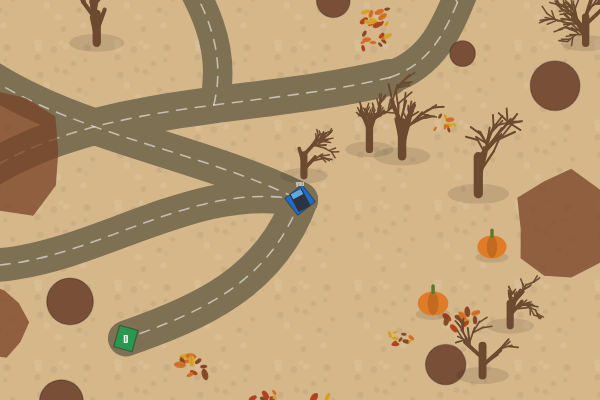
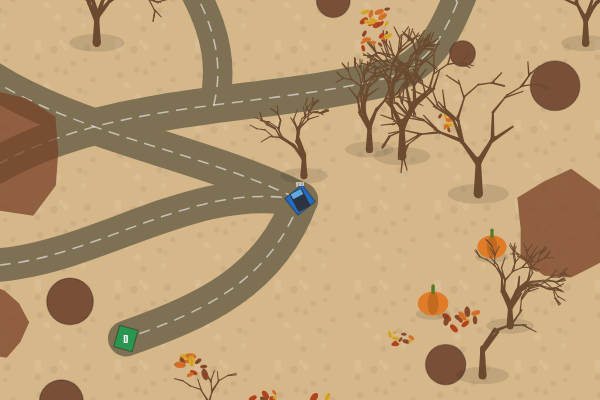
Improve tree generation

diff --git a/src/game/render.ts b/src/game/render.ts
@@ -1,10 +1,10 @@
-import { distance } from "../util/vec2.js";
-import { mulberry32, randInt, randRange, seedFromString, shuffle, type Rng } from "../util/rng.js";
 import { getTheme, type TextureStyle } from "../level/themes.js";
-import { drawPalmV2 } from "./palm-variants.js";
+import type { Level, Warehouse } from "../level/types.js";
 import type { CargoState } from "../physics/cargo.js";
 import type { TruckState } from "../physics/truck.js";
-import type { Level, Warehouse } from "../level/types.js";
+import { mulberry32, randInt, randRange, seedFromString, shuffle, type Rng } from "../util/rng.js";
+import { distance } from "../util/vec2.js";
+import { drawPalmV2 } from "./palm-variants.js";
 
 function strokeRoad(ctx: CanvasRenderingContext2D, level: Level): void {
   for (const road of level.roads) {
@@ -466,9 +466,9 @@ function drawTreeBranch(
     const t = randRange(rng, 0.75, 1); // start in the top 25% of this branch
     const sx = x + dx * length * t;
     const sy = y + dy * length * t;
-    const deviation = (randRange(rng, 20, 50) * Math.PI) / 180; // 20-50 deg, either side
+    const deviation = (randRange(rng, 15, 40) * Math.PI) / 180; // 20-50 deg, either side
     const childAngle = angle + (rng() < 0.5 ? -deviation : deviation);
-    drawTreeBranch(ctx, rng, sx, sy, childAngle, length * 0.9, width * 0.5, depth + 1, maxDepth);
+    drawTreeBranch(ctx, rng, sx, sy, childAngle, length * 0.85, width * 0.65, depth + 1, maxDepth);
   }
 }
 
@@ -1147,7 +1147,7 @@ function drawProp(ctx: CanvasRenderingContext2D, kind: string, variant: number, 
     }
     case "baretree": {
       ctx.fillStyle = "#6b4a2f";
-      drawTreeBranch(ctx, rng, 0, 9, -Math.PI / 2, randRange(rng, 7, 10), 2.4, 0, 5);
+      drawTreeBranch(ctx, rng, 0, 9, -Math.PI / 2, randRange(rng, 7, 10), 2.4, 0, 6);
       break;
     }
     case "acacia": {
@@ -1173,7 +1173,7 @@ function drawProp(ctx: CanvasRenderingContext2D, kind: string, variant: number, 
     case "charredtree": {
       // Same recursive tree as the autumn bare tree, only darker.
       ctx.fillStyle = "#2e2724";
-      drawTreeBranch(ctx, rng, 0, 9, -Math.PI / 2, randRange(rng, 7, 10), 2.4, 0, 5);
+      drawTreeBranch(ctx, rng, 0, 9, -Math.PI / 2, randRange(rng, 7, 10), 2.4, 0, 6);
       break;
     }
   }
